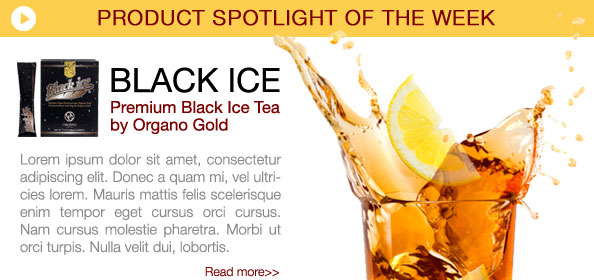
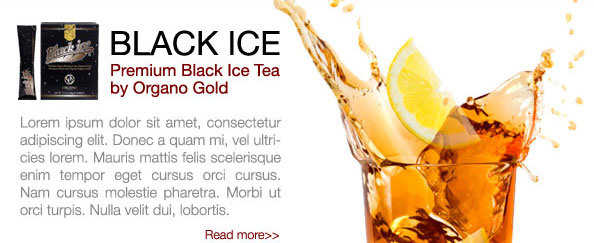
og retail html 修改 - 按钮样式调整等

diff --git a/OG_Retail_HTML/HTML/css/style.css b/OG_Retail_HTML/HTML/css/style.css
@@ -175,6 +175,7 @@ table{width:100%;border-collapse:collapse;border-spacing:0;}
 .btnbox .cancel,.btnbox .btn{display:inline-block;padding:0 20px;margin:0 2px;height:30px;overflow:hidden;background:#d7d7d7;border-radius:3px;box-shadow:1px 1px 1px rgba(0,0,0,0.5);font-size:16px;color:#790000;}
 .btnbox .cancel{line-height:30px;text-align:center;}
 .btnbox .btn{vertical-align:top;border:none;cursor:pointer;}
+.btnbox .redbtn{background:#790000;color:#fff;}
 
 .actionbox{float:left;padding:20px 0;}
 .actionbox .empty,.actionbox .btn{display:inline-block;height:24px;overflow:hidden;font-size:14px;color:#790000;margin-top:6px;}
@@ -210,10 +211,11 @@ table{width:100%;border-collapse:collapse;border-spacing:0;}
 
 .checkout2{margin:30px 0 10px 0;}
 .checkout2 .week{width:594px;height:280px;}
-.checkout2 .week img{display:block;width:594px;height:280px;}
+.checkout2 .week h3{height:35px;line-height:35px;text-align:center;font-size:18px;color:#790000;background:#fece4e url(../images/retail/icon_week.png) no-repeat;}
+.checkout2 .week img{display:block;width:594px;height:243px;}
 
 .checkout2 .seller li{float:left;width:198px;border:1px solid #dedede;margin:0 2px;}
-.checkout2 .seller h3{height:35px;line-height:35px;overflow:hidden;color:#fff;font-size:16px;text-align:center;background:url(../images/retail/icon_cont.png) 0 -35px no-repeat;}
+.checkout2 .seller h3{height:35px;line-height:35px;overflow:hidden;color:#fff;font-size:18px;text-align:center;background:url(../images/retail/icon_cont.png) 0 -35px no-repeat;}
 .checkout2 .seller img{display:block;width:198px;height:161px;}
 .checkout2 .seller p{padding:5px 10px;text-align:center;color:#666;height:32px;line-height:16px;overflow:hidden;}
 .checkout2 .seller .star{width:90px;height:25px;background:url(../images/retail/icon_cont.png) 0 -70px no-repeat;float:left;margin:0 0 5px 30px;}

diff --git a/OG_Retail_HTML/HTML/checkout3.html b/OG_Retail_HTML/HTML/checkout3.html
@@ -227,7 +227,7 @@
                         <td><p class="width2">
                             <input type="text" value="" size="5" name="payment_source[3001][verification_value]" id="card_code" class="required" autocomplete="off">
                           </p>
-                          <a target="_blank" onclick="window.open(this.href,'cvv_info','left=20,top=20,width=500,height=500,toolbar=0,resizable=0,scrollbars=1');return false" href="/content/cvv">What's this</a> </td>
+                          <a target="_blank" onClick="window.open(this.href,'cvv_info','left=20,top=20,width=500,height=500,toolbar=0,resizable=0,scrollbars=1');return false" href="/content/cvv">What's this</a> </td>
                       </tr>
                     </tbody>
                   </table>
@@ -306,7 +306,10 @@
         </ul>
       </div>
       <div class="checkout2 clearfix">
-        <div class="week f-l"> <a href="#" target="_blank"><img src="images/retail/pic2.jpg" /></a> </div>
+        <div class="week f-l">
+          <h3>PRODUCT SPOTLIGHT OF THE WEEK</h3>
+          <div class="weekbox"><a href="#" target="_blank"><img src="images/retail/pic2.jpg" /></a></div>
+        </div>
         <ul class="seller f-r">
           <li>
             <h3>TOP SELLER</h3>

diff --git a/OG_Retail_HTML/HTML/product.html b/OG_Retail_HTML/HTML/product.html
@@ -123,7 +123,10 @@
         </ul>
       </div>
       <div class="checkout2 clearfix">
-        <div class="week f-l"> <a href="#" target="_blank"><img src="images/retail/pic2.jpg" /></a> </div>
+        <div class="week f-l">
+          <h3>PRODUCT SPOTLIGHT OF THE WEEK</h3>
+          <div class="weekbox"><a href="#" target="_blank"><img src="images/retail/pic2.jpg" /></a></div>
+        </div>
         <ul class="seller f-r">
           <li>
             <h3>TOP SELLER</h3>
@@ -168,7 +171,9 @@
         <p>Number：<em>1</em></p>
         <p>Total：<em>$4998</em></p>
       </div>
-      <div class="cart_details f-r"><span>Your Cart (<em>1</em>Items )</span><p>Subtotal <em>$59.77</em></p></div>
+      <div class="cart_details f-r"><span>Your Cart (<em>1</em>Items )</span>
+        <p>Subtotal <em>$59.77</em></p>
+      </div>
       <div class="btncont f-r"><a href="javascript:void(0);" class="btn">Continue shopping</a><a href="javascript:void(0);" class="btn">Add To Basket</a></div>
     </dd>
   </dl>

diff --git a/OG_Retail_HTML/HTML/checkout1.html b/OG_Retail_HTML/HTML/checkout1.html
@@ -146,7 +146,7 @@
             <input name="" type="submit" value="Empty Cart" class="empty" />
             <a href="#" class="btn">Continue shopping</a> </div>
           <div class="btnbox"><a href="#" class="cancel">Cancel</a>
-            <input name="" type="submit" value="Continue" class="btn" />
+            <input name="" type="submit" value="Continue" class="btn redbtn" />
           </div>
         </form>
       </div>
@@ -168,7 +168,10 @@
         </ul>
       </div>
       <div class="checkout2 clearfix">
-        <div class="week f-l"> <a href="#" target="_blank"><img src="images/retail/pic2.jpg" /></a> </div>
+        <div class="week f-l">
+          <h3>PRODUCT SPOTLIGHT OF THE WEEK</h3>
+          <div class="weekbox"><a href="#" target="_blank"><img src="images/retail/pic2.jpg" /></a></div>
+        </div>
         <ul class="seller f-r">
           <li>
             <h3>TOP SELLER</h3>

diff --git a/OG_Retail_HTML/HTML/checkout4.html b/OG_Retail_HTML/HTML/checkout4.html
@@ -119,7 +119,10 @@
         </ul>
       </div>
       <div class="checkout2 clearfix">
-        <div class="week f-l"> <a href="#" target="_blank"><img src="images/retail/pic2.jpg" /></a> </div>
+        <div class="week f-l">
+          <h3>PRODUCT SPOTLIGHT OF THE WEEK</h3>
+          <div class="weekbox"><a href="#" target="_blank"><img src="images/retail/pic2.jpg" /></a></div>
+        </div>
         <ul class="seller f-r">
           <li>
             <h3>TOP SELLER</h3>

diff --git a/OG_Retail_HTML/HTML/nutra.html b/OG_Retail_HTML/HTML/nutra.html
@@ -143,7 +143,10 @@
         </ul>
       </div>
       <div class="checkout2 clearfix">
-        <div class="week f-l"> <a href="#" target="_blank"><img src="images/retail/pic2.jpg" /></a> </div>
+        <div class="week f-l">
+          <h3>PRODUCT SPOTLIGHT OF THE WEEK</h3>
+          <div class="weekbox"><a href="#" target="_blank"><img src="images/retail/pic2.jpg" /></a></div>
+        </div>
         <ul class="seller f-r">
           <li>
             <h3>TOP SELLER</h3>

diff --git a/OG_Retail_HTML/HTML/personal.html b/OG_Retail_HTML/HTML/personal.html
@@ -143,7 +143,10 @@
         </ul>
       </div>
       <div class="checkout2 clearfix">
-        <div class="week f-l"> <a href="#" target="_blank"><img src="images/retail/pic2.jpg" /></a> </div>
+        <div class="week f-l">
+          <h3>PRODUCT SPOTLIGHT OF THE WEEK</h3>
+          <div class="weekbox"><a href="#" target="_blank"><img src="images/retail/pic2.jpg" /></a></div>
+        </div>
         <ul class="seller f-r">
           <li>
             <h3>TOP SELLER</h3>

diff --git a/OG_Retail_HTML/HTML/checkout2.html b/OG_Retail_HTML/HTML/checkout2.html
@@ -382,7 +382,7 @@
         </table>
       </div>
       <div class="btnbox clear"><a href="#" class="cancel">&lt; Back</a>
-        <input name="" type="submit" value="Continue &gt;" class="btn" />
+        <input name="" type="submit" value="Continue &gt;" class="btn redbtn" />
       </div>
     </div>
     <!-- content end -->
